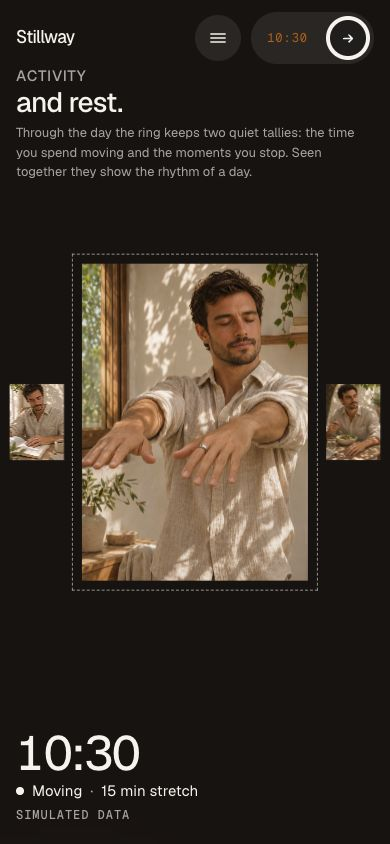
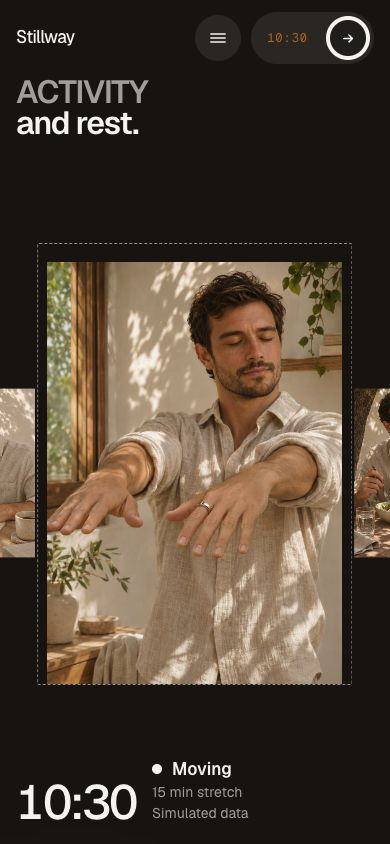
feat(web-v2): D-092 S04 follows V1 heading and scroll-slide
V1 heading proportions (two equal lines, caps paper-soft), V1 photo/strip
size, dashed frame, thumbnails 0.36/0.4 with 22/12 px gap, dwell easing,
zIndex by distance, fade-up of time/state/detail on active change, V1
mobile block. V2 entry/exit, colours, D-066 copy and state 5 kept.

diff --git a/web-v2/src/scripts/sections/activity.ts b/web-v2/src/scripts/sections/activity.ts
@@ -8,7 +8,8 @@
  *  > 4.6 connection to S05: text and list out (0–30%), 15:30 darkens toward Dusk and fades (30–70%)
  * The 3D ring is not drawn here (only on the finger in the photos).
  */
-import { put, seg, clamp01, lerp, type Ctx } from '../anim';
+import { gsap } from 'gsap';
+import { put, seg, clamp01, lerp, smooth, type Ctx } from '../anim';
 import type { Pose } from '../ring/poses';
 import { insightStart } from './insight';
 import type { SectionMotion } from '../story';
@@ -45,7 +46,6 @@ export const activity: SectionMotion = {
     const inn = seg(u, -0.3, 0); // 70–100% of the incoming connection
     const x = u - END; // outgoing connection progress
     const uiOut = 1 - seg(x, 0, 0.3);
-    const k = clamp01(u / 4) * 4; // photo in the frame, continuous
 
     put(el.glow, { o: seg(u, -0.6, 0) * (1 - seg(x, 0.3, 0.7)) }, ctx);
     put(el.head, { o: inn * uiOut, x: 60 * (1 - inn) }, ctx);
@@ -54,28 +54,36 @@ export const activity: SectionMotion = {
     put(el.list, { o: inn * uiOut }, ctx);
     put(el.hint, { o: inn * (1 - seg(u, 0.2, 0.8)) }, ctx);
 
-    // strip geometry: active width A (portrait), small width s, gap g
+    // D-092: the strip moves exactly like V1 (web/src/scripts/motion.ts, "activity and rest: the
+    // strip"): it dwells on each photo, then slides; the previous photo stays small on the left of
+    // the frame, the next one on the right. Entry (from the right) and state 5 (others leave, the
+    // frame fades, 15:30 darkens) stay V2.
     const W = window.innerWidth;
-    const H = window.innerHeight;
-    const A = ctx.mobile ? W * 0.58 : Math.min(H * 0.7 * 0.714, W * 0.34);
-    const s = ctx.mobile ? A * 0.24 : A * 0.34; // phones: small thumbs that fit fully beside the frame
-    const g = ctx.mobile ? 18 : 22;
-    const near = A / 2 + g + s / 2;
+    const raw = clamp01(u / 4) * 4;
+    const base = Math.floor(raw);
+    const f = Math.min(4, base + smooth(smooth(raw - base)));
+    const bw = items[0].offsetWidth;
+    const sc = ctx.mobile ? 0.4 : 0.36;
+    const sw = bw * sc;
+    const gap = ctx.mobile ? 12 : 22;
+    const near = bw / 2 + gap + sw / 2;
     const darken = seg(x, 0.2, 0.6);
-    const enter = (1 - inn) * W * 0.5; // the strip comes in from the right
+    const enter = (1 - inn) * W * 0.5; // V2: the strip comes in from the right
+    const leave = seg(u, 3.3, 4); // V2 state 5: the others leave to the left
     items.forEach((it, i) => {
-      const d = i - k;
+      const d = i - f;
       const ad = Math.abs(d);
-      let px = ad <= 1 ? d * near : Math.sign(d) * (near + (ad - 1) * (s + g));
-      if (i < 4) px -= seg(u, 3.3, 4) * W * 0.6; // state 5: the others leave to the left
-      const size = lerp(A, s, Math.min(1, ad));
+      const k = smooth(Math.min(1, ad));
+      let px = Math.sign(d) * (ad <= 1 ? k * near : near + (ad - 1) * (sw + gap));
       const last = i === 4;
-      const o = inn * (last ? 1 - seg(x, 0.45, 0.8) : 1 - seg(u, 3.4, 4) * 0.999);
-      put(it, { o, x: px + enter, s: size / A }, ctx);
+      if (!last) px -= leave * W * 0.6;
+      const o = inn * (ad > 4 ? 0 : 1) * (last ? 1 - seg(x, 0.45, 0.8) : 1 - leave * 0.999);
+      put(it, { o, x: px + enter, s: lerp(1, sc, k) }, ctx);
+      it.style.zIndex = String(100 - Math.round(ad * 10));
       if (last) it.style.setProperty('--dark', darken.toFixed(3));
     });
 
-    const idx = Math.round(k);
+    const idx = Math.round(f);
     if (idx !== shown) {
       shown = idx;
       const it = items[idx];
@@ -85,10 +93,15 @@ export const activity: SectionMotion = {
       if (el.key) el.key.dataset.state = it.dataset.state!.toLowerCase();
       ticks.forEach((t, i) => t.classList.toggle('is-active', i === idx));
       root.dataset.active = String(idx);
+      // V1 setActive: the new values fade up
+      if (!ctx.reduced && el.time)
+        gsap.fromTo([el.time, el.state?.parentElement, el.detail], { y: 10, opacity: 0.2 }, { y: 0, opacity: 1, duration: 0.5, stagger: 0.04, overwrite: true });
     }
   },
   clock(u) {
-    return times[Math.round(clamp01(u / 4) * 4)] ?? '07:40';
+    const raw = clamp01(u / 4) * 4;
+    const b = Math.floor(raw);
+    return times[Math.round(Math.min(4, b + smooth(smooth(raw - b))))] ?? '07:40';
   },
   // hidden; parked where S05 brings it back so 04 → 05 only needs a fade and scale 0.9 → 1
   ring(_u, ctx: Ctx) {
